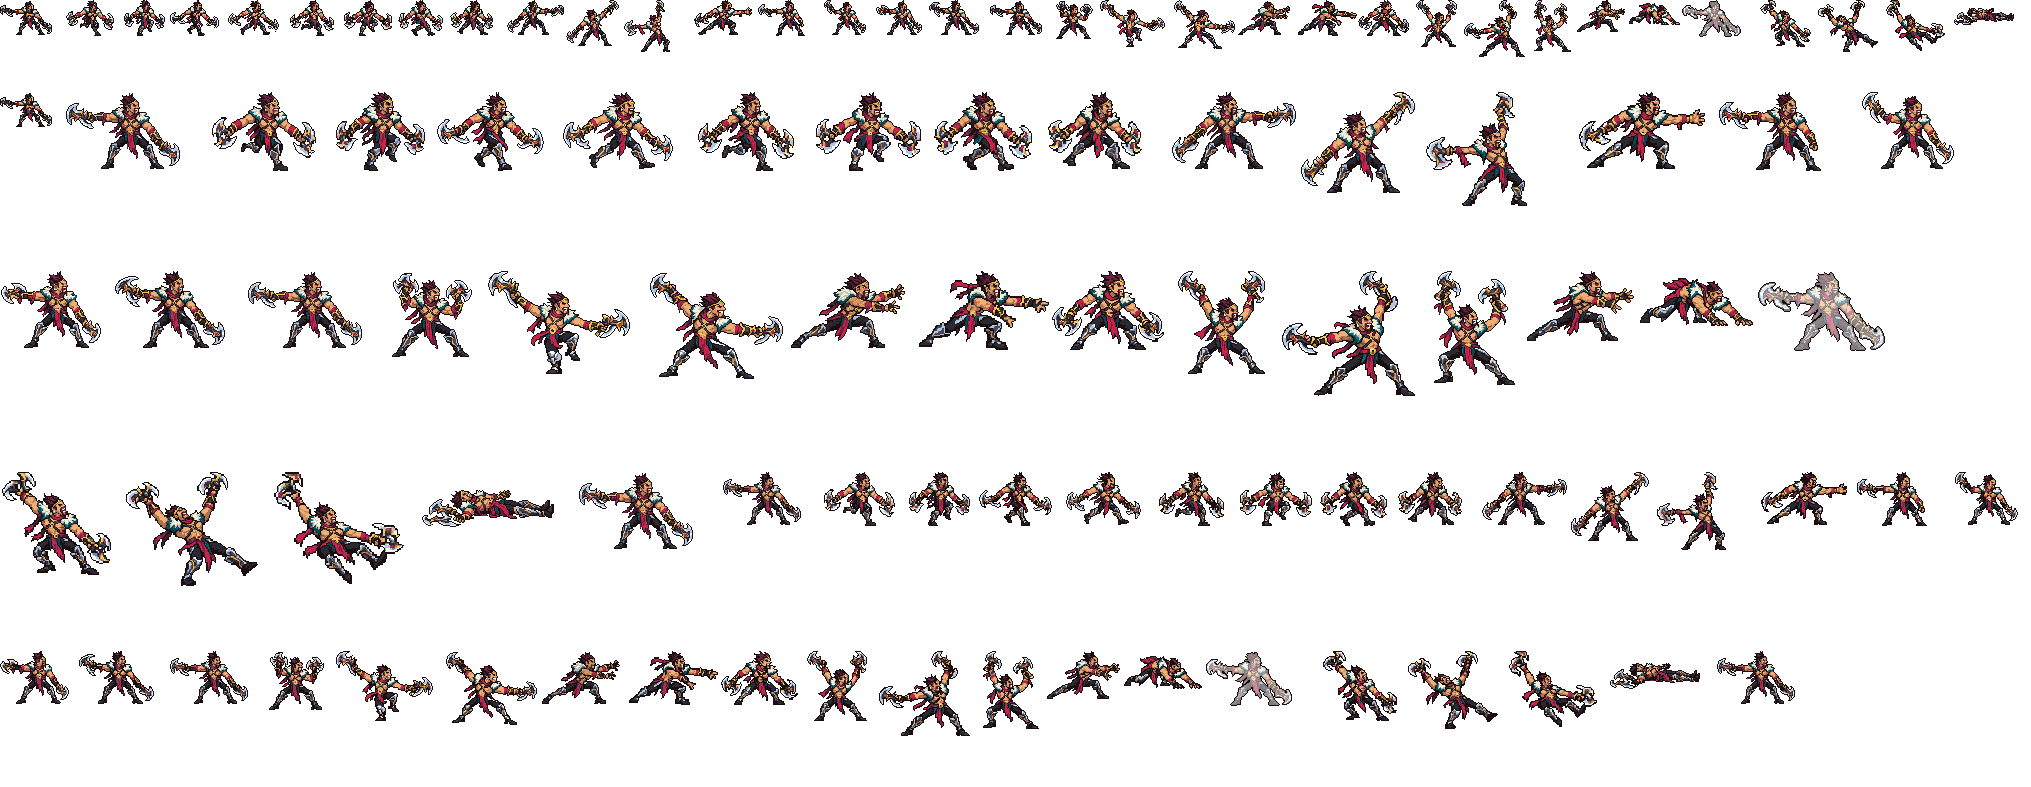
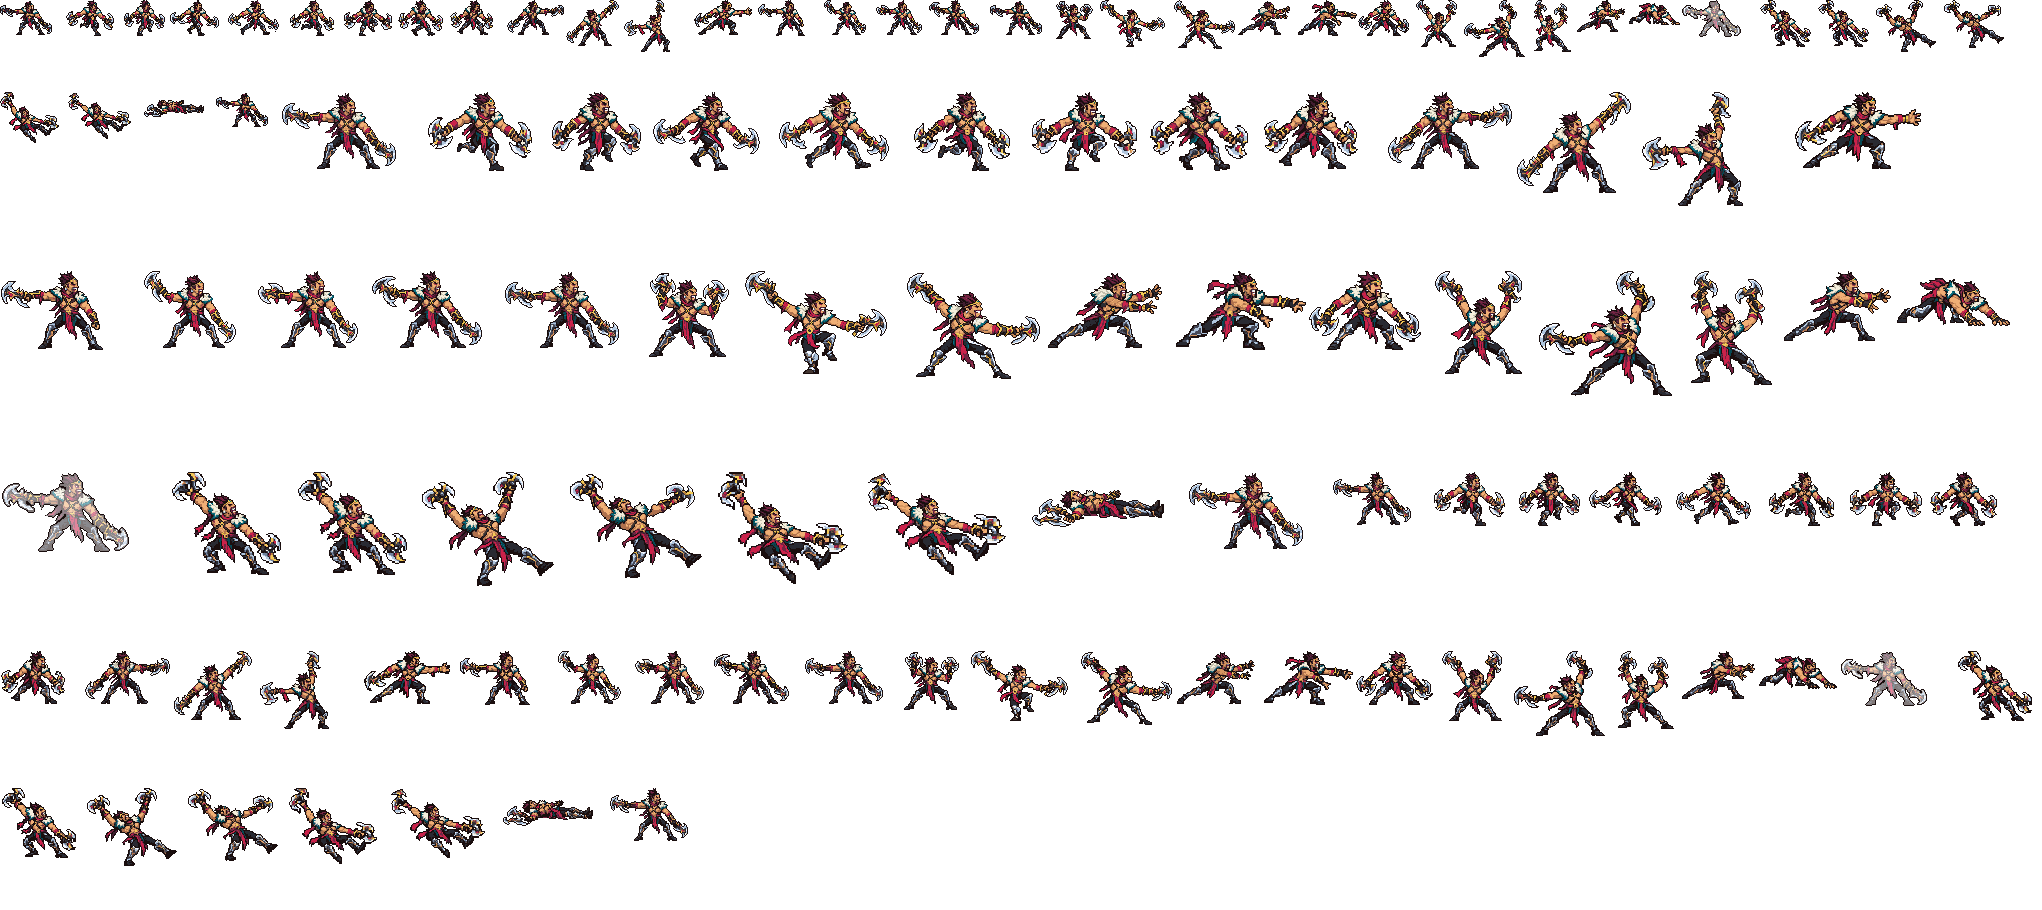
德莱文动作补帧：阵亡 4 帧 4 姿势 -> 7 帧 7 姿势（红布条按列扬起、两条胳膊连斧头绕肩转；中间帧用他自己的原帧做）
用户：「还有有的动画感觉只有一帧 不如oppi的地方都要补 参考联盟的动画」，又说「动画你觉得少的地方就想办法补」「能改就想办法改 全都要改」，
现在「剩下的一批英雄也做了啊 都做完了装进去了再测」。对照表里阵亡 4 帧 1.07 秒（倒地那张停 0.75 秒）。
没有新画，没有交给 Codex，没有用图像模型。数法：「几帧，其中几个不同的姿势」。

- tools/art/rig_draven_hd.py（他的图集就是它写的，016cf8bff 那次 PPU 重做：干净的树上 rig -> ppu_restyle -> ppu_hd ->
  hero_reels 四步逐文件复现；rig_draven_legs.py 只给更早的 fix_draven_strips.py 用，现在不在这条链上）：
  INB 里的标签不再从图集读帧数和时长，按自己的表出帧：inb_frame() 把 Codex 的阵亡画（casts_draven_hd 的 dead_1-4，放在
  on_grid 的画布上）交给 inbetween.vary，INB_PARTS 一个部件一帧，每帧核对部件以外逐格没变、没有碎块针孔：
  中弹 50 | 腰间那两条红布条末端往上扬 4 格（按列，离开身子的地方 0）50 | 双手高举 50 | 举在上面的右臂连斧头绕肩往下转
  45 度（spin，根部藏到毛领下面；肩上的毛领按颜色留着不动）50 | 往后倒 60 | 举着的左臂连斧头往左下转 25 度 60 |
  倒在地上 750，一共还是 1070，往后踉跄 100、往后倒 200、着地 320 都没变（他的普攻数据是另一边量的，帧不改数据）
- 图集和 fanim 重新生成：2031x787 -> 2042x910；其余 8 个标签（连同 hd_、lo_、待机和选人卡片共 27 个）逐帧像素、时长都没变；
  hero_reels.json 不用改（待机剪的是 Q 和普攻），选人卡片还是普攻、Q、W、R；选人格子用的那张 2.21 -> 2.55 MiB
- docs/heroes/league_draven.md「开发记录」加一行

不满意的地方：往后倒到躺地还是一下过去（身子转了大半圈，只有原画那两张）；布条那张只扬 4 格，3 倍下看得见、不大；
转过的斧头刃口比原画圆一点、细节软一点。

查过：hero_reels --check --hero draven（0）；新旧图集逐帧对比（compare_sheets：27 个标签逐帧没变，阵亡总长 1070，100 / 200 /
320 三个分界还在）；sheet_audit（七帧没有针孔、碎块）；ui_sheets（bp 303.8 / 768 MiB）；league_viego_soul make_override 和
--check；gen_hero_docs --check；cargo test --release -p hd_engine -p league_main -p league_viego_soul（48 + 41 + 26 全过；他没有
自己的附加包）。每帧 3 倍、斧头 6 倍看过；流水线在这次提交上重跑，文件不变。

Changed region(s): [[0.0, 0.305, 1.0, 0.9454], [0.0, 0.0915, 0.9616, 0.244], [0.0, 0.0, 0.9926, 0.061]]

diff --git a/tools/art/rig_draven_hd.py b/tools/art/rig_draven_hd.py
@@ -24,6 +24,7 @@ HERE = os.path.dirname(os.path.abspath(__file__))
 sys.path.insert(0, HERE)
 import casts_draven_hd as CS  # noqa: E402
 import design_draven_hd as DS  # noqa: E402
+import inbetween as IB  # noqa: E402
 import ppu_rig as R  # noqa: E402
 import rig_xinzhao_hd as XZ  # noqa: E402
 
@@ -95,12 +96,72 @@ def on_grid(rig, d, x, y):
     return can
 
 
+# The death's in-betweens (2026-11-14, the user: 「有的动画感觉只有一帧 不如oppi的地方都要补 参考联盟的动画」): every frame
+# one of Codex's four casts or a cast with one part moved (inbetween.vary), nothing drawn - the red cloth strips at his
+# waist lifted at their free ends (a column wave, nothing where they leave him), the raised right arm and its axe turned
+# down about the shoulder toward the next cast's (spin: the root goes under the fur collar), the raised left arm and its
+# axe turned down to the left as he falls (the axe on the ground in the last cast). Boxes / polygons in the canvas's
+# squares (on_grid's), the fur collar's cream and teal at the shoulder left out. The death keeps its length and its
+# boundaries: the stagger at 100, the fall at 200, on the ground at 320 (1070 ms in all). INB tags do not take their
+# frames from the sheet.
+INB = {"dead": [("dead_1", 50), ("dead_1", 50, "cloth"), ("dead_2", 50), ("dead_2", 50, "arm_r"),
+                ("dead_3", 60), ("dead_3", 60, "arm_l"), ("dead_4", 750)]}
+INB_PARTS = {
+    "cloth": dict(cast="dead_1", poly=[(70, 92), (92, 92), (92, 114), (70, 114)], sway=(70, 91, 4)),
+    "arm_r": dict(cast="dead_2", poly=[(116, 86), (113, 70), (112, 60), (106, 58), (106, 30), (143, 30), (143, 58),
+                                       (131, 60), (130, 75), (128, 86)], fur=(70, None, 0, 119), spin=((115, 82), 45)),
+    "arm_l": dict(cast="dead_3", poly=[(79, 86), (70, 88), (64, 80), (60, 70), (52, 70), (34, 72), (34, 30), (72, 30),
+                                       (72, 58), (75, 63), (77, 66), (77, 80)], fur=(74, None, 70, None),
+                  spin=((76, 82), -25)),
+}
+INB_PAD = 12
+
+
+def fur_collar(a):
+    """The fur collar's cream and teal squares."""
+    rgb = a[..., :3].astype(int)
+    return (a[..., 3] > 0) & (((rgb.min(-1) > 170) & (rgb.max(-1) - rgb.min(-1) < 60)) |
+                              ((rgb[..., 2] > rgb[..., 0] + 20) & (rgb[..., 1] > rgb[..., 0])))
+
+
+def inb_frame(rig, can, part):
+    """The cast's canvas with INB_PARTS[part] moved; the same canvas size."""
+    p = INB_PARTS[part]
+    m = IB.part_mask(can.shape, [p["poly"]]) & (can[..., 3] > 0)
+    if "fur" in p:                                   # the collar inside the part's rows / columns stays
+        y0, y1, x0, x1 = p["fur"]
+        box = np.zeros_like(m)
+        box[y0:y1, x0:x1] = True
+        m &= ~(fur_collar(can) & box)
+    parts = {part: [(int(x), int(y), int(x), int(y)) for y, x in zip(*np.nonzero(m))]}
+    outline = rig.D.outline
+    if "sway" in p:
+        x0, x1, k = p["sway"]
+        out = IB.vary(can, parts, outline, sway=[(part, x0, x1, k, "right")], pad=INB_PAD, name=part)
+    else:
+        about, deg = p["spin"]
+        out = IB.vary(can, parts, outline, spins=[(part, about, deg, "under")], pad=INB_PAD, name=part)
+    q = INB_PAD
+    if out[:q, :, 3].any() or out[-q:, :, 3].any() or out[:, :q, 3].any() or out[:, -q:, 3].any():
+        sys.exit(f"{part}: the moved part leaves the canvas")
+    out = out[q:-q, q:-q]
+    if IB.audit(out):
+        sys.exit(f"{part}: {IB.audit(out)}")
+    return out
+
+
 def frames(rig):
     sheet = R.sheet_of(HERO)
     casts, _ = CS.placed()
     out = {}
     for tag in sheet:
         if tag in ("idle", "bp"):
+            continue
+        if tag in INB:
+            out[tag] = []
+            for name, ms, *part in INB[tag]:
+                can = on_grid(rig, *casts[name])
+                out[tag].append((inb_frame(rig, can, part[0]) if part else can, ms))
             continue
         n = len(sheet[tag])
         if tag == "idle_base":

diff --git a/docs/heroes/league_draven.md b/docs/heroes/league_draven.md
@@ -80,6 +80,7 @@
 | 特效 | Codex 生图的 19 张（游戏尺寸原稿直接读，`import_draven.py`）：`league_draven_fx` 普攻飞斧（用定稿手里那把斧整格旋转，Codex 那张太碎）、命中火花、火焰旋转斧和弹起、接斧落点圈和落下的斧头（放在落点上，0.38 秒）、接住闪光、没接住、头顶一把 / 两把旋转斧、血性冲刺光和脚下红光、开道利斧、命中、减速、大招命中、金币兑现、满层星光；`league_draven_big` 大招的两把火焰巨斧（飞出去和飞回来共用）。颜色照英雄联盟：血红到橙黄的火焰、斧头本身的钢色，兑现用金色 |
 | 音效 | 英雄联盟的音效和配音（`tools/lol/extract_draven.py`）：扔斧和命中、Q 转斧 / 火焰斧出手 / 命中 / 接住 / 掉落、W、E 出手 / 飞出 / 命中、R 出手 / 飞出 / 命中 / 折返、被动兑现；Q、W、E、R 的配音。版权属于 Riot Games，**不提交到仓库**，按下面的命令在本地生成 |
 | 图标 | 官方技能图标（Q 旋转飞斧 / E 开道利斧 / R 冷血追命），从本地客户端提取，缩到 64×64；W 自动，没有技能位 |
+| 动作补帧（2026-11-14） | 用户：「还有有的动画感觉只有一帧 不如oppi的地方都要补 参考联盟的动画」，又说「动画你觉得少的地方就想办法补」「能改就想办法改 全都要改」。对照表里阵亡 4 帧（1.07 秒，倒地那张就停 0.75 秒）。没有新画，也没交给 Codex：中间帧都用 Codex 自己的那四张阵亡画做，每张只动一个部件（[`tools/art/rig_draven_hd.py`](../../tools/art/rig_draven_hd.py) 的 INB 表，[`tools/art/inbetween.py`](../../tools/art/inbetween.py) 的 `vary`），每帧核对部件以外逐格不变。下面写的是「几帧，其中几个不同的姿势」。**阵亡** 4 帧（4 个姿势）→ 7 帧，其中 7 个：中弹；腰间那两条红布条的末端往上扬 4 格（离开身子的地方不动）；双手高举；举在上面的右臂连斧头绕肩往下转 45 度（转向下一张伸平的样子，根部藏进毛领下面）；往后倒；举着的左臂连斧头往左下转 25 度（斧头往地上落）；倒在地上 750 毫秒。50、50、50、50、60、60、750，一共还是 1070 毫秒，往后踉跄（100）、往后倒（200）、着地（320）的毫秒都没变。技能数据没改；待机、跑、普攻、Q、W、R、受击逐帧没变。每帧 3 倍、转过的斧头 6 倍看过。待机剪的还是 Q 和普攻（`hero_reels.json` 不用改），选人卡片还是普攻、Q、W、R，逐帧没变。图集 2031×787 → 2042×910，选人格子用的那张 2.21 → 2.55 MiB。游戏里还没看过 |
 
 重新生成（素材来自本机的英雄联盟客户端，音频不进仓库）：
 
